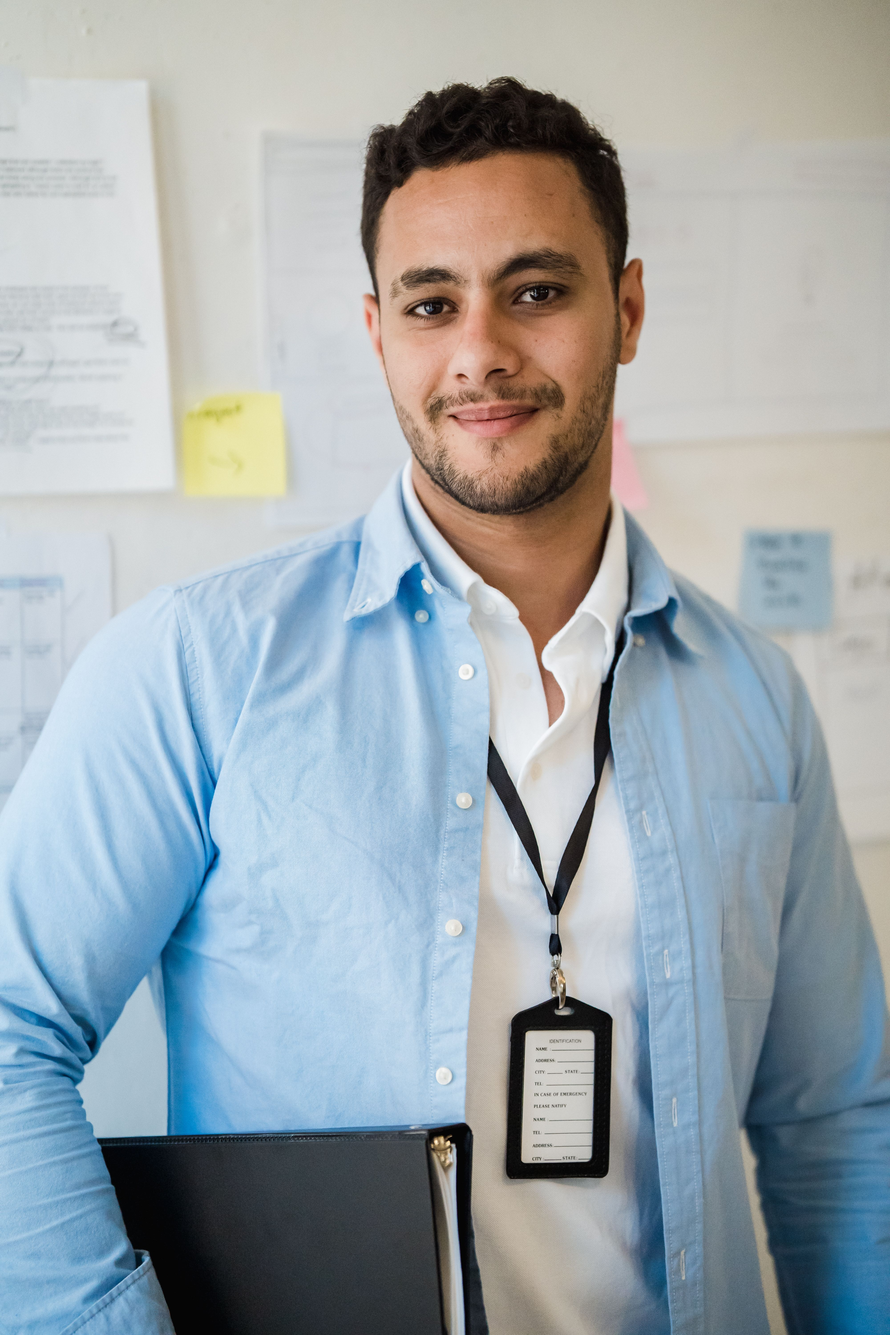
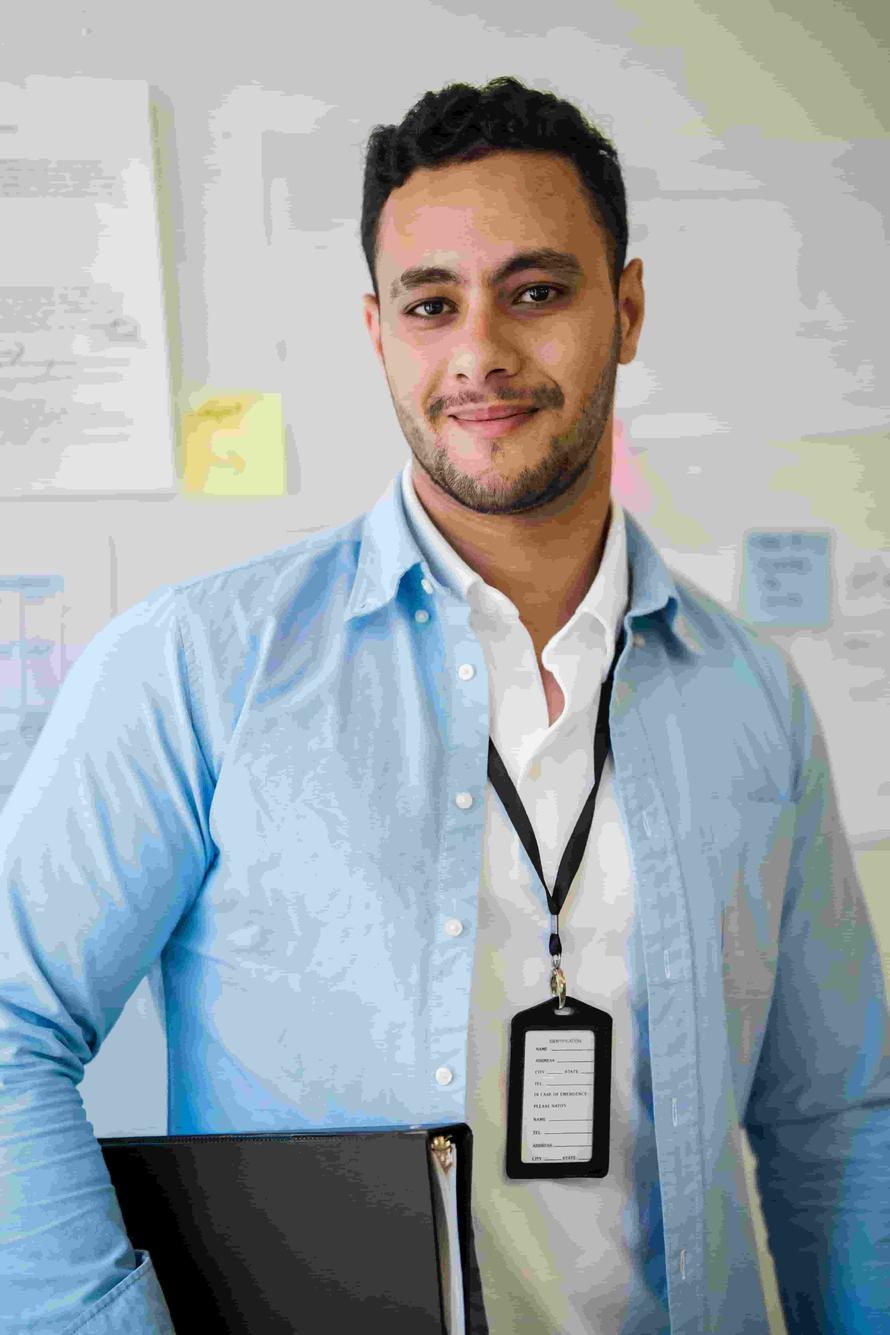
Add contact page enhancements and style adjustments

diff --git a/wwr/contact.html b/wwr/contact.html
@@ -22,13 +22,12 @@
         </nav>
     </header>
     <main>
-
+        <h1>Koffi's Rafting Club</h1>
         <section class="contact-section">
 
 
             <div class="company-info">
 
-                <h2>Koffi's Rafting Club</h2>
 
                 <p>
                     Address: 123 River Road<br>
@@ -66,27 +65,21 @@
 
                         <p>Purpose of Message:</p>
 
-                        <label>
-                            <input type="radio" name="purpose">
-                            General Inquiry
-                        </label>
+                        <input type="radio" id="general" name="purpose" value="general">
+                        <label for="general">General Inquiry</label>
 
-                        <label>
-                            <input type="radio" name="purpose">
-                            Reservation Question
-                        </label>
+                        <input type="radio" id="reservation" name="purpose" value="reservation">
+                        <label for="reservation">Reservation Question</label>
 
-                        <label>
-                            <input type="radio" name="purpose">
-                            Website Suggestion
-                        </label>
+                        <input type="radio" id="suggestion" name="purpose" value="suggestion">
+                        <label for="suggestion">Website Suggestion</label>
 
                         <label for="message">Message:</label>
 
                         <textarea id="message" name="message"></textarea>
+                        <input type="checkbox" id="newsletter" name="newsletter">
 
-                        <label>
-                            <input type="checkbox">
+                        <label for="newsletter">
                             Please subscribe me to the monthly newsletter
                         </label>
 
@@ -109,17 +102,17 @@
             <div class="employee-cards">
 
                 <figure>
-                    <img src="images/john-Smith.jpg" alt="John Smith">
+                    <img src="images/john-smith.jpg" alt="John Smith">
                     <figcaption>John Smith - Rafting Manager</figcaption>
                 </figure>
 
                 <figure>
-                    <img src="images/Mary-Johnson.jpg" alt="Mary Johnson">
+                    <img src="images/mary-johnson.jpg" alt="Mary Johnson">
                     <figcaption>Mary Johnson - River Guide</figcaption>
                 </figure>
 
                 <figure>
-                    <img src="images/David-Brown.jpg" alt="David Brown">
+                    <img src="images/david-brown.jpg" alt="David Brown">
                     <figcaption>David Brown - Safety Instructor</figcaption>
                 </figure>
 

diff --git a/wwr/styles/rafting.css b/wwr/styles/rafting.css
@@ -159,6 +159,11 @@ footer {
 /* ==========================
    CONTACT PAGE
 ========================== */
+
+main h1 {
+    text-align: center;
+}
+
 .contact-section h1,
 .company-info,
 .employees h2,
